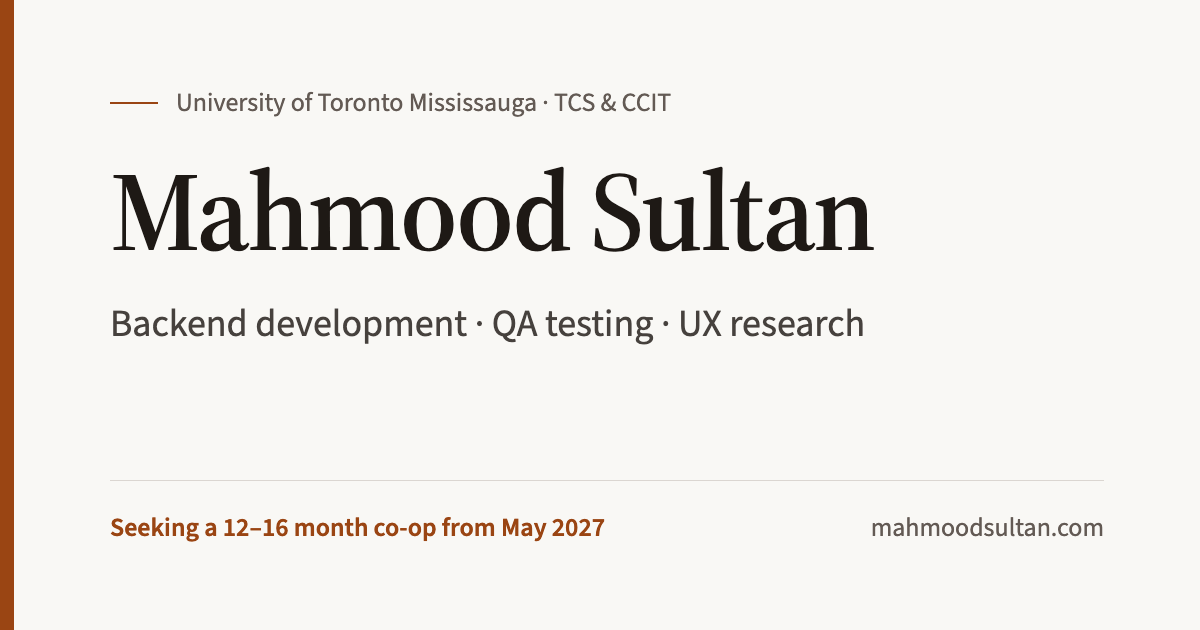
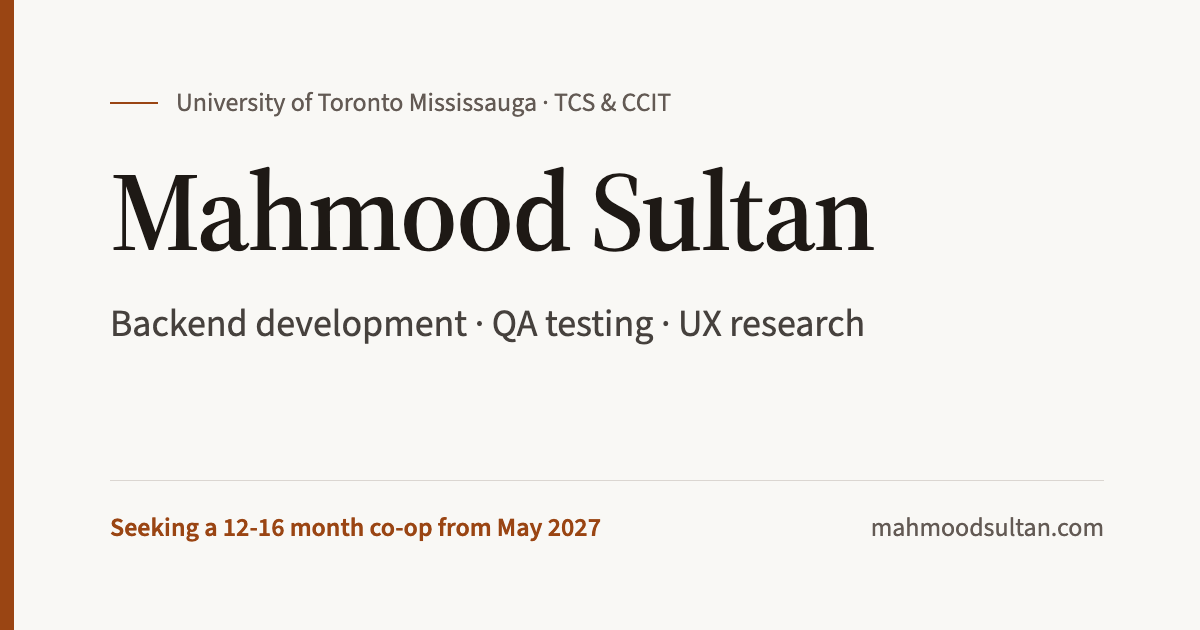
Update program name and project details

Changed region(s): [[0.2158, 0.8143, 0.5242, 0.8746]]

diff --git a/src/components/ProjectsSection.tsx b/src/components/ProjectsSection.tsx
@@ -43,7 +43,7 @@ const otherProjects: OtherProject[] = [
     title: "OurCal",
     meta: "React 19 · TypeScript · Vite · Supabase",
     description:
-      "Local-first calorie and macro diary with optional Supabase sync, used by 40+ people. 60+ automated tests (Vitest and Playwright) run in GitHub Actions.",
+      "Local-first calorie and macro diary with optional Supabase sync, used by 40+ people. 70+ automated tests (Vitest and Playwright) run in GitHub Actions.",
     links: [
       { label: "Live app", href: "https://ourcal-pi.vercel.app" },
       { label: "GitHub", href: "https://github.com/5781mahmood/OurCal" },

diff --git a/src/components/AboutSection.tsx b/src/components/AboutSection.tsx
@@ -51,7 +51,7 @@ const AboutSection = () => {
           </h2>
           <p className="mt-5 text-base leading-relaxed text-foreground/85 md:text-lg">
             BA at the University of Toronto Mississauga in Technology, Coding &amp;
-            Society (TCS) and Culture, Communication, Information &amp; Technology
+            Society (TCS) and Communication, Culture, Information &amp; Technology
             (CCIT), with a Statistics minor. Expected graduation Apr 2029. Seeking a
             12-16 month co-op starting May 2027.
           </p>

diff --git a/scripts/og-image.html b/scripts/og-image.html
@@ -32,7 +32,7 @@
       <p class="roles">Backend development · QA testing · UX research</p>
     </div>
     <footer>
-      <strong>Seeking a 12–16 month co-op from May 2027</strong>
+      <strong>Seeking a 12-16 month co-op from May 2027</strong>
       <span>mahmoodsultan.com</span>
     </footer>
   </body>
